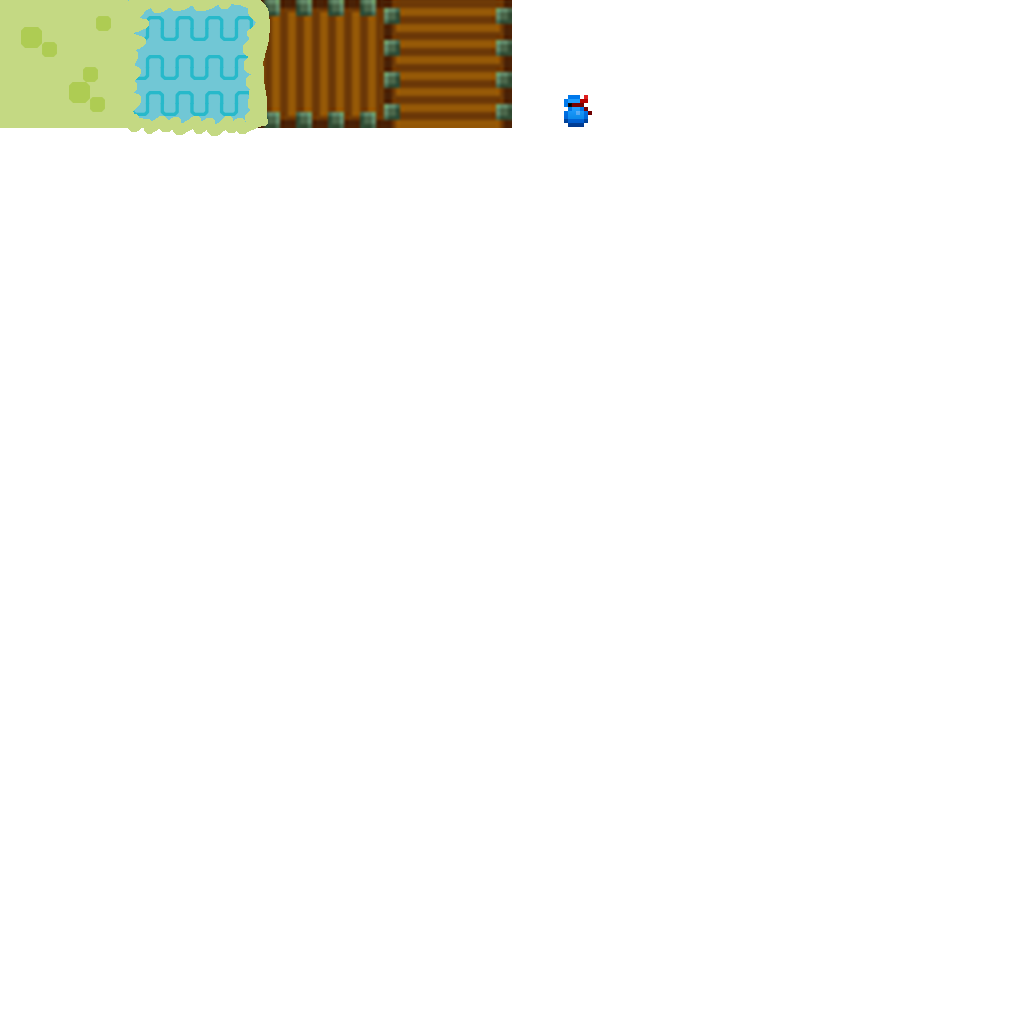
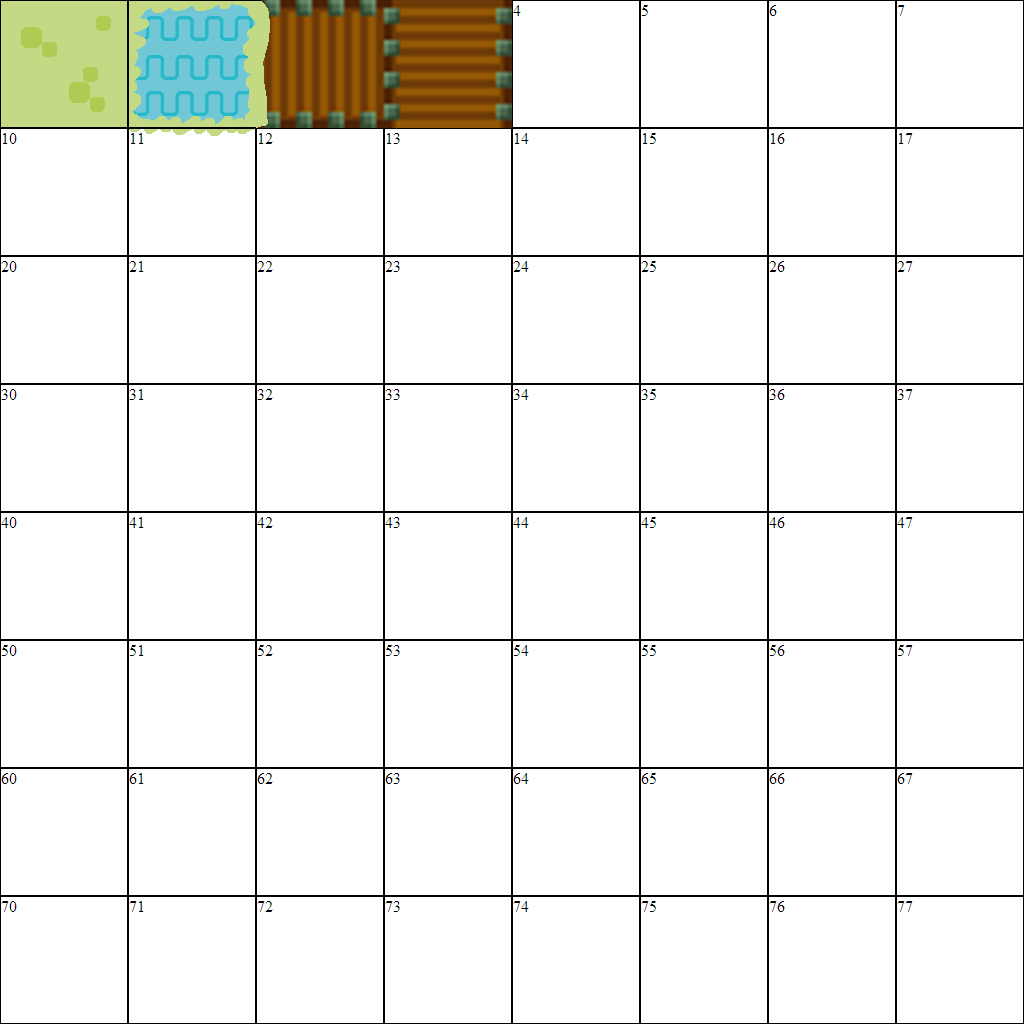
fixed fakewire (again...)

diff --git a/src/MainCode.java b/src/MainCode.java
@@ -335,9 +335,9 @@ public class MainCode {
             GL11.glBindTexture(GL11.GL_TEXTURE_2D, tmp.get(0));
             
             GL11.glTexParameteri(GL11.GL_TEXTURE_2D, GL11.GL_TEXTURE_MAG_FILTER,
-                    GL11.GL_NEAREST);
+                    GL11.GL_LINEAR);
             GL11.glTexParameteri(GL11.GL_TEXTURE_2D, GL11.GL_TEXTURE_MIN_FILTER,
-                    GL11.GL_NEAREST);
+                    GL11.GL_LINEAR);
             GL11.glPixelStorei(GL11.GL_UNPACK_ALIGNMENT, 4);
             
             GL11.glTexImage2D(GL11.GL_TEXTURE_2D, 0, GL11.GL_RGBA, decoder.getWidth(), decoder.getHeight(), 0, GL11.GL_RGBA, GL11.GL_UNSIGNED_BYTE, buf);
